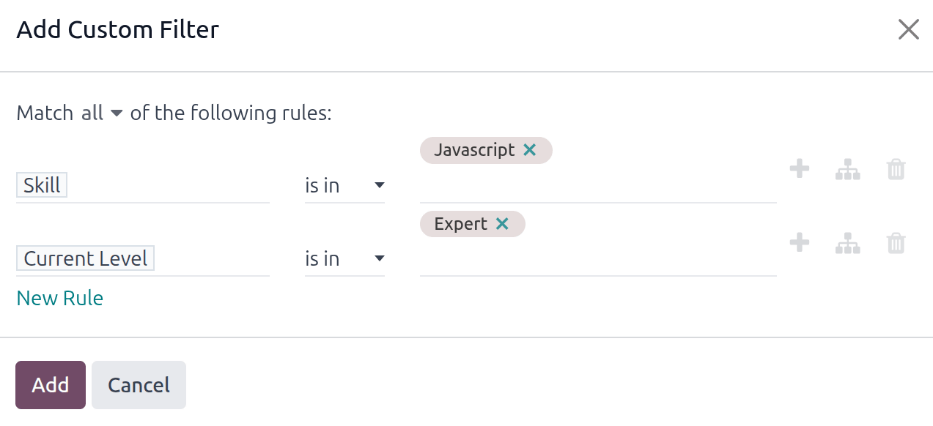
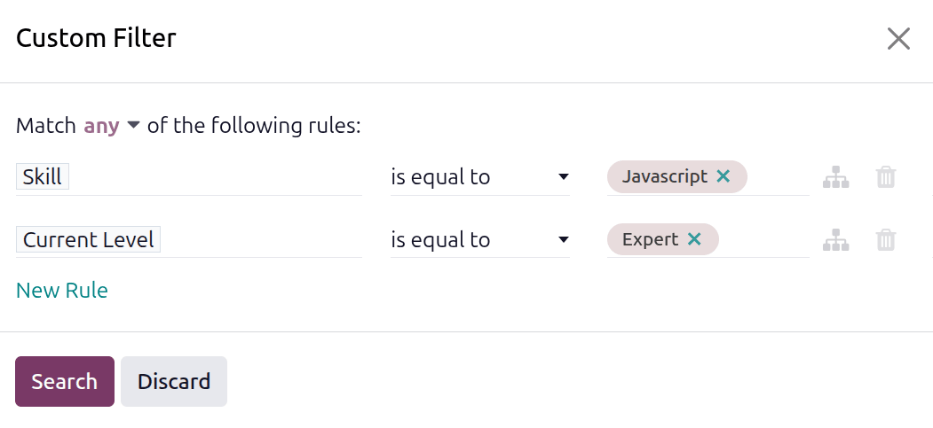
[IMP] Appraisals - Update skills evolution
closes odoo/documentation#19235

X-original-commit: 4c2b43571a1944492ecd83eed3d71984ae84b433

diff --git a/content/applications/hr/appraisals/skills_evolution.rst b/content/applications/hr/appraisals/skills_evolution.rst
@@ -2,7 +2,7 @@
 Skills evolution
 ================
 
-In Odoo's **Appraisals** app, it is possible to view employee's skills as they progress over time in
+In Odoo's **Appraisals** app, it is possible to view employees' skills as they progress over time in
 the :ref:`Skills Evolution <appraisals/identify-skills-evolution>` report, also known as the
 *Appraisal Skills Report*.
 
@@ -22,36 +22,36 @@ Skills evolution report
 To access this *Skills Evolution* report, navigate to :menuselection:`Appraisals app --> Reporting
 --> Skills Evolution`.
 
-Doing so reveals the :guilabel:`Appraisal Skills Report` page. All skills are grouped by the month
-they were created, then by employee, and then by skill type.
+Doing so reveals the *Appraisal Skills Report* page. All skills are grouped first by the month the
+skill was initially achieved, then by employee, and lastly by skill type.
 
 .. important::
-    The :guilabel:`Appraisals Skills Report` only displays skills for employees with at least one
-    completed appraisal. Skills for employees whose appraisals are still draft or pending are not
-    included.
+   The *Appraisal Skills Report* **only** displays skills for employees with at least one completed
+   appraisal. Skills for employees whose appraisals have a status of *Draft* or *Ongoing* are not
+   included.
 
    When an employee completes their first appraisal, all their skills appear on the report. Once
-   subsequent appraisals are marked as done, any skill changes from the previous appraisal appear on
-   the report.
+   subsequent appraisals are marked as *Done*, any skill changes from the previous appraisal appear
+   on the report.
 
    Any skill level changes from ongoing appraisals that have **not** been finalized are **not**
    included in this report.
 
-To view the specific details for an employee's skill types, expand the :guilabel:`Employee`, then
-expand the individual :guilabel:`Skill Types`. Each skill type displays the following information:
+To view the specific details for an employee's skill, expand the :guilabel:`Employee`, then the
+:guilabel:`Skill Type`. This displays a list of all the employee's skills within that skill type.
+Each skill displays the following information:
 
-- :guilabel:`Employee`: the name of the employee.
-- :guilabel:`Skill Type`: the category the skill falls under.
-- :guilabel:`Skill`: the specific, individual skill.
-- :guilabel:`Current Level`: the current level the employee has achieved for the skill.
-- :guilabel:`Previous Progress`: the previous percentage of competency achieved for the skill.
-- :guilabel:`Current Progress`: the current percentage of competency achieved for the skill.
-- :guilabel:`Justification`: any notes entered on the skill, explaining the progress.
+- :guilabel:`Employee`: The name of the employee.
+- :guilabel:`Skill Type`: The category the skill falls under.
+- :guilabel:`Skill`: The specific, individual skill.
+- :guilabel:`Current Level`: The current level the employee has achieved for the skill.
+- :guilabel:`Previous Progress`: The previous percentage of competency achieved for the skill.
+- :guilabel:`Current Progress`: The current percentage of competency achieved for the skill.
+- :guilabel:`Justification`: Any notes entered on the skill, explaining the progress.
 
 The color of the skill text indicates any changes from the previous appraisal. Skill levels that
-have increased since the last appraisal appear in green, as an *Improvement*. Skill levels that have
-**not** changed appear in black, as *No Change*. Skills that have regressed appear in red, as
-*Regression*.
+have increased since the last appraisal appear in green, skill levels that have not changed appear
+in black, and skills that have regressed appear in red.
 
 This report can be modified to find specific information by adjusting the :ref:`filters
 <search/filters>` and :ref:`groupings <search/group>` set in the search bar at the top.
@@ -64,30 +64,29 @@ This report can be modified to find specific information by adjusting the :ref:`
 Use case: Identify employees with specific skills
 =================================================
 
-Since the :guilabel:`Appraisal Skills Report` organizes all skills by month, then employee, it can
-be difficult to find employees with a specific skill at a specific level. To find these employees, a
+Since the *Appraisal Skills Report* organizes all skills by month, then employee, it can be
+difficult to find employees with a specific skill at a certain level. To find these employees, a
 custom filter must be used.
 
 In this example, the report is modified to show employees with an expert level of Javascript
 knowledge. To view only those employees, first remove all active filters in the search bar.
 
 Next, click the :icon:`fa-caret-down` :guilabel:`(Toggle Search Panel)` icon in the search bar, then
-click :guilabel:`Add Custom Filter` beneath the :icon:`fa-filters` :guilabel:`Filters` column to
-load an :guilabel:`Add Custom Filter` pop-up window.
+click :guilabel:`Custom Filter...` beneath the :icon:`fa-filter` :guilabel:`Filters` column to load
+a *Custom Filter* pop-up window.
 
-Using the drop-down menu in the first field, select :guilabel:`Skill`. Then, keep the second field
-as-is (:guilabel:`is in)`, and select :guilabel:`Javascript` from the third drop-down menu in the
-third field.
+At the top of the pop-up window, first modify the :guilabel:`Match any` :icon:`fa-caret-down`
+:guilabel:`of the following rules` sentence. Click the word :guilabel:`any` to change it to
+:guilabel:`all`.
+
+Next, using the drop-down menu in the first field, select :guilabel:`Skill`. Then, keep the second
+field as-is (:guilabel:`is equal to`), and select :guilabel:`Javascript` for the third field.
 
 Next, click :guilabel:`New Rule`, and another line appears. In this second line, select
-:guilabel:`Current Level` for the first drop-down field, leave the second field as-is :guilabel:`(is
-in)`, then select :guilabel:`Expert` for the third drop-down field.
+:guilabel:`Current Level` for the first drop-down field, leave the second field as-is (:guilabel:`is
+equal to`), then select :guilabel:`Expert` for the third drop-down field.
 
-After the second rule is added, navigate to the text at the top of the pop-up window that shows
-:guilabel:`Match any` :icon:`fa-caret-down` :guilabel:`of the following rules`. Click the drop-down
-menu for :guilabel:`any` and change it to :guilabel:`all`.
-
-Finally, click the :guilabel:`Add` button.
+Finally, click the :guilabel:`Search` button.
 
 .. image:: skills_evolution/javascript.png
    :alt: The Custom Filter pop-up with the parameters set.
@@ -101,8 +100,8 @@ appear. In this example, only :guilabel:`Marc Demo` meets these criteria.
 Use case: Assess highest improvement
 ====================================
 
-Another way to modify the :guilabel:`Appraisal Skills Report` is to identify the employee who has
-the highest amount of improved skills over a specific period of time.
+Another way to modify the *Appraisal Skills Report* is to identify the employee who has the highest
+amount of improved skills over a specific period of time.
 
 To view this information, first remove the default filter in the search bar. Next, click the
 :icon:`fa-caret-down` :guilabel:`(Toggle Search Panel)` icon in the search bar, then click
@@ -110,50 +109,53 @@ To view this information, first remove the default filter in the search bar. Nex
 filter only presents skills that have improved.
 
 It is possible to view the skills that have improved over a period of time, such as a specific
-quarter, or month. With the search bar drop-down menu still expanded, click :guilabel:`Add Custom
-Filter` at the bottom of the :icon:`fa-filter` :guilabel:`Filters` column, and an :guilabel:`Add
-Custom Filter` pop-up window appears.
+quarter, or month. With the search bar drop-down menu still expanded, click :guilabel:`Custom
+Filter...` at the bottom of the :icon:`fa-filter` :guilabel:`Filters` column, and a *Custom Filter*
+pop-up window appears.
 
-Select :guilabel:`Create Date` for the first drop-down field, then select :guilabel:`is between` for
-the second drop-down field. Once :guilabel:`is between` is selected, a second field appears after
-the last field. Using the calendar selector, select the date range to apply the filter to. Once all
-the fields are properly formatted, click :guilabel:`Add`.
+Select :guilabel:`Create Date` for the first drop-down field, then select :guilabel:`after` for the
+second drop-down field. Once :guilabel:`after` is selected, the current date populates the last
+field. Modify the date so it is one day before the desired date range.
+
+Next, click :guilabel:`New Rule`, and a second line appears with identical information. In this
+second rule, click on the middle drop-down menu, and select :guilabel:`before`. Modify the last
+field so the date is one day after the desired time period.
+
+Once all the fields are properly formatted, click :guilabel:`Search`.
 
 The custom filter presents all skills that have been improved, organized by employee, in a default
 list view.
 
 .. example::
    To determine the employee with the most amount of improved skills for the second quarter, remove
-   the default filter in the search bar of the :guilabel:`Appraisal Skills Report`. Next, activate
-   the :guilabel:`Improvement` filter, then click :guilabel:`Add Custom Filter` at the bottom of the
+   the default filter in the search bar of the *Appraisal Skills Report*. Next, activate the
+   :guilabel:`Improvement` filter, then click :guilabel:`Custom Filter...` at the bottom of the
    :icon:`fa-filter` :guilabel:`Filters` column.
 
-   In the resulting :guilabel:`Add Custom Filter` pop-up window, select :guilabel:`Create Date` for
-   the first drop-down field, then select :guilabel:`is between` for the second drop-down field. Two
-   date fields appear after :guilabel:`is between` is selected.
-
-   Using the calendar selector, set the first date to :guilabel:`04/01/2025` and the second date to
-   :guilabel:`06/30/2025`, then click :guilabel:`Add`.
+   In the resulting *Custom Filter* pop-up window, select :guilabel:`Create Date` for the first
+   drop-down field, then select :guilabel:`after` for the second drop-down field. Using the calendar
+   selector, set the date to :guilabel:`03/31/2026`. Click :guilabel:`New Rule`, and select
+   :guilabel:`before` in the middle field. Using the calendar selector, set the last field to
+   :guilabel:`07/01/2026`, then click :guilabel:`Search`.
 
    .. image:: skills_evolution/custom-filter.png
       :alt: The Custom Filter pop-up with the parameters set.
 
 To view the number of employees and skills in further detail, click the :icon:`oi-view-pivot`
-:guilabel:`(Pivot)` icon in the top-right corner to view the data in a pivot table. This presents a
-pivot table with the employees populating the rows, and the only visible column represents the total
-number of improved skills.
+:guilabel:`(Pivot)` icon in the top-right corner. This presents a pivot table with the employees
+populating the rows, and the only visible column represents the total number of improved skills.
 
 To expand the columns to view which skill types had the most overall improvement, click
 :icon:`fa-plus-square` :guilabel:`Total` above the :guilabel:`Count` column, then click
-:guilabel:`Add Custom Group` :icon:`fa-caret-down`, then click :guilabel:`Skill` from the resulting
+:guilabel:`Custom Group` :icon:`fa-caret-down`, then click :guilabel:`Skill` from the resulting
 drop-down menu. This expands all the improved skills, organized by individual skill.
 
 .. example::
    In this example, :guilabel:`Audrey Peterson` improved the most in the third quarter, with five
    improved skills.
 
-  .. image:: skills_evolution/largest-improvement.png
-     :alt: The pivot table showing the skill improvements for the third quarter.
+   .. image:: skills_evolution/largest-improvement.png
+      :alt: The pivot table showing the skill improvements for the third quarter.
 
 .. seealso::
    - :doc:`Odoo essentials reporting <../../essentials/reporting>`
